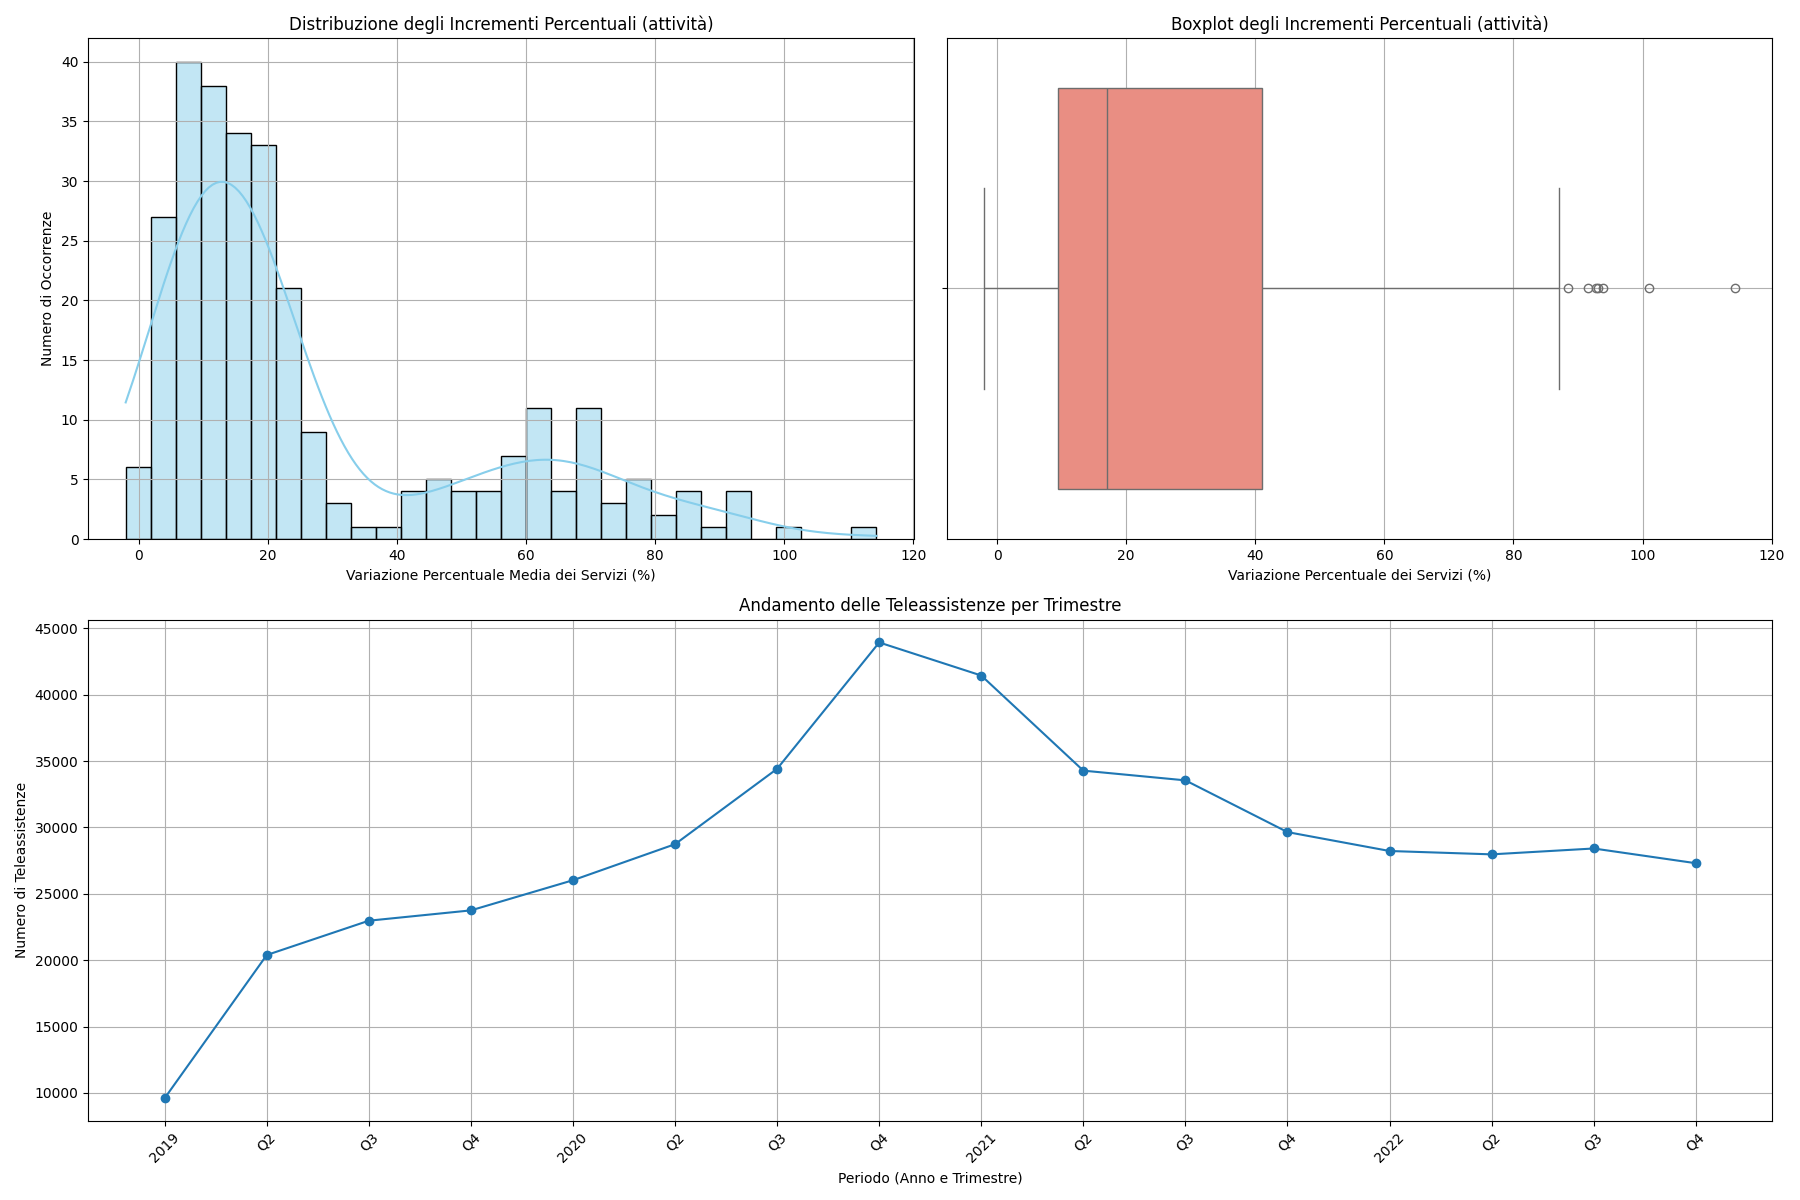
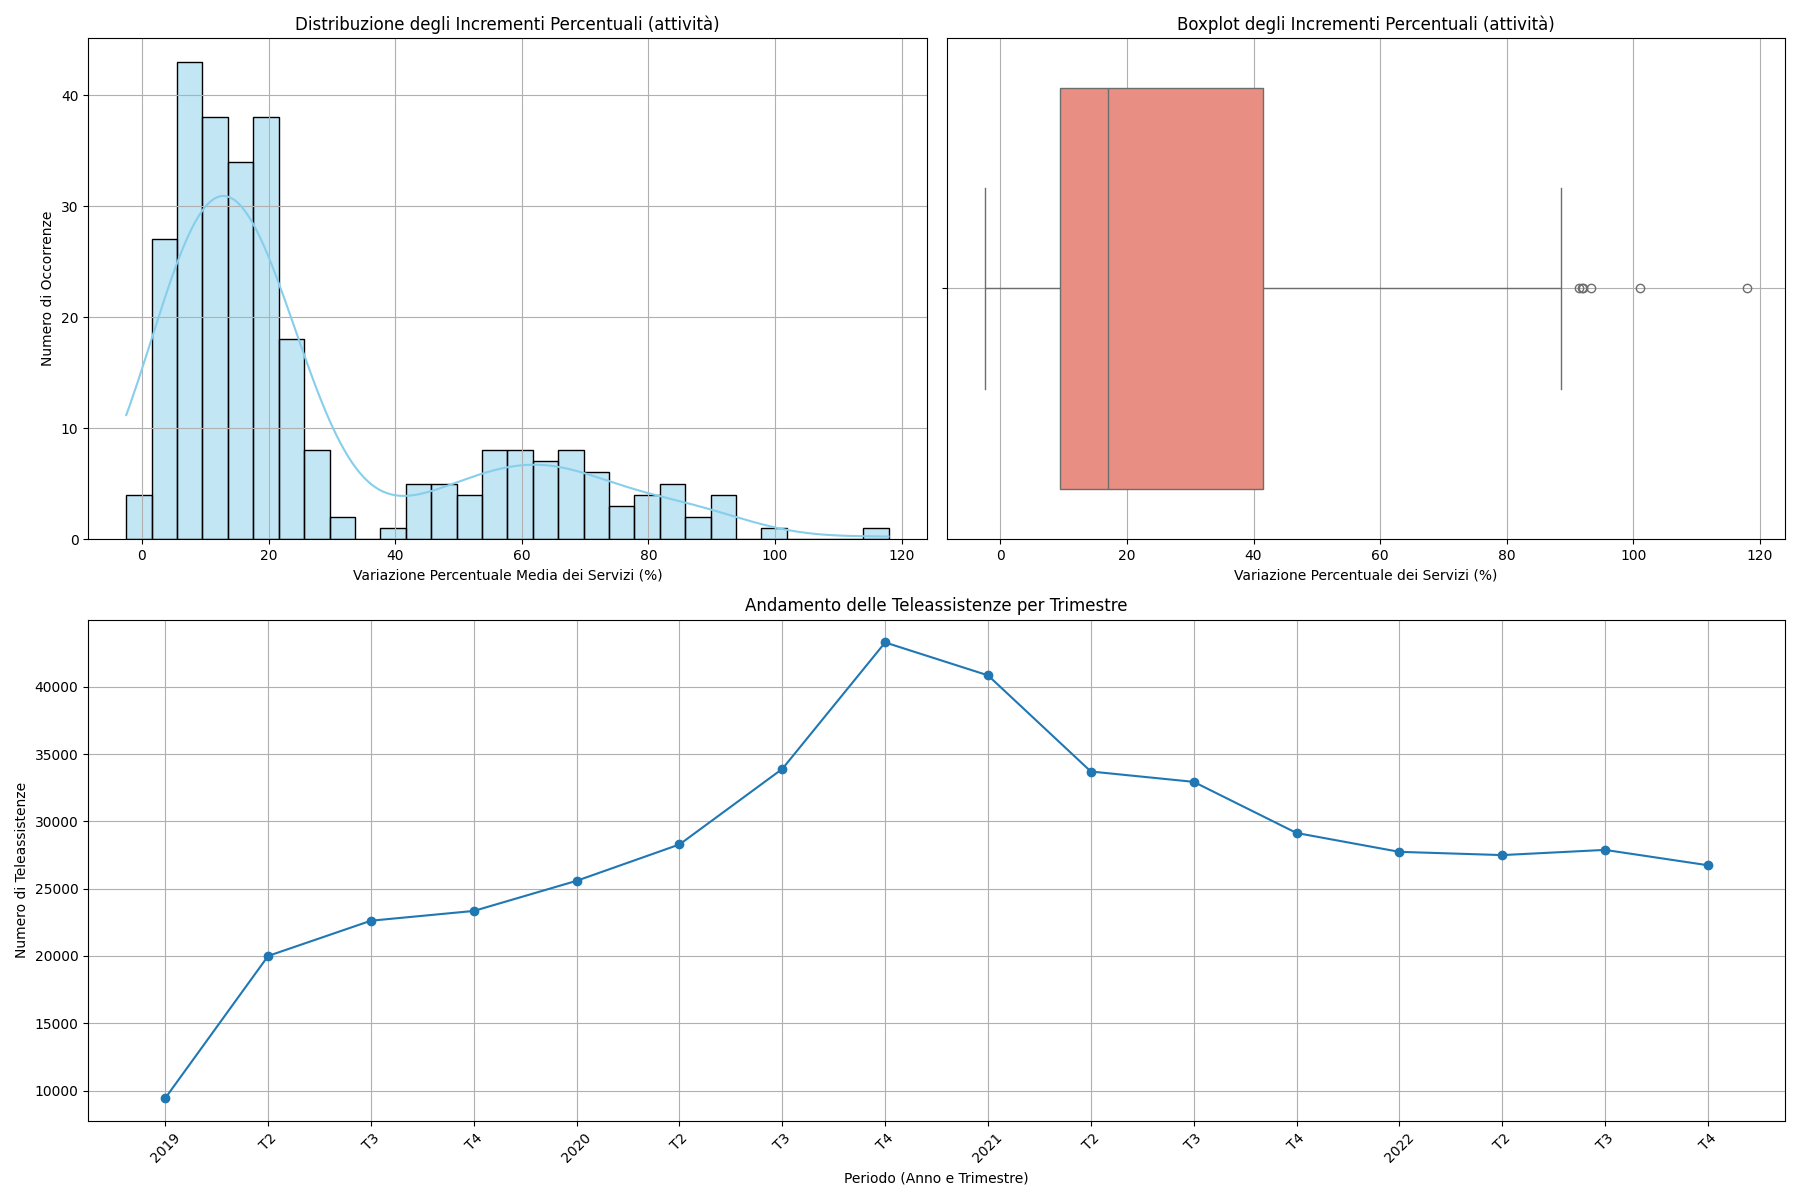
eseguito merge nuove colonne di FeatureExtraction con nuovi grafici

diff --git a/dataprocessing/FeatureExtractor.py b/dataprocessing/FeatureExtractor.py
@@ -39,10 +39,11 @@ class FeatureExtractor:
         self.incremento_percentuale_medio = df_grouped.groupby(df_cols_no_anno)['incremento_percentuale'].mean().reset_index()
         
         # Unisce i risultati al dataset originale
-        #self.dataset = pd.merge(self.dataset, df_grouped[['anno', 'trimestre', 'codice_descrizione_attivita', 'fascia_eta', 'incremento', 'incremento_percentuale']],
-        #                        on=['anno', 'trimestre', 'codice_descrizione_attivita', 'fascia_eta'], how='left')
+        new_cols = ['incremento_percentuale', 'numero_servizi']
+        self.dataset = pd.merge(self.dataset, df_grouped[cols_grouped + new_cols],
+                                on=cols_grouped, how='left')
 
-    def add_quarter_column(self):
+    def add_trimestre_column(self):
         """
         Aggiunge una colonna che indica il trimestre di erogazione del servizio,
         gestendo correttamente le differenze di fuso orario.
@@ -54,7 +55,7 @@ class FeatureExtractor:
         self.dataset['data_erogazione'] = self.dataset['data_erogazione'].dt.tz_localize(None)
         
         # Creiamo una nuova colonna con il trimestre di erogazione del servizio
-        self.dataset['trimestre'] = self.dataset['data_erogazione'].dt.to_period('Q')
+        self.dataset['trimestre'] = self.dataset['data_erogazione'].dt.to_period('T')
 
     def preprocess_data(self):
         """
@@ -123,7 +124,7 @@ class FeatureExtractor:
                 labels.append(f"{year}")
                 previous_year = year
             else:
-                labels.append(f"Q{quarter}")
+                labels.append(f"T{quarter}")
 
         # Plot del trend con le etichette personalizzate
         plt.plot(trend.index.astype(str), trend.values, marker='o', linestyle='-')
@@ -150,7 +151,7 @@ class FeatureExtractor:
         self.calculate_percentage_increments()
         
         # Aggiunta della colonna del trimestre
-        self.add_quarter_column()
+        self.add_trimestre_column()
         
         # Generazione e salvataggio dei grafici
         self.plot_graph()
